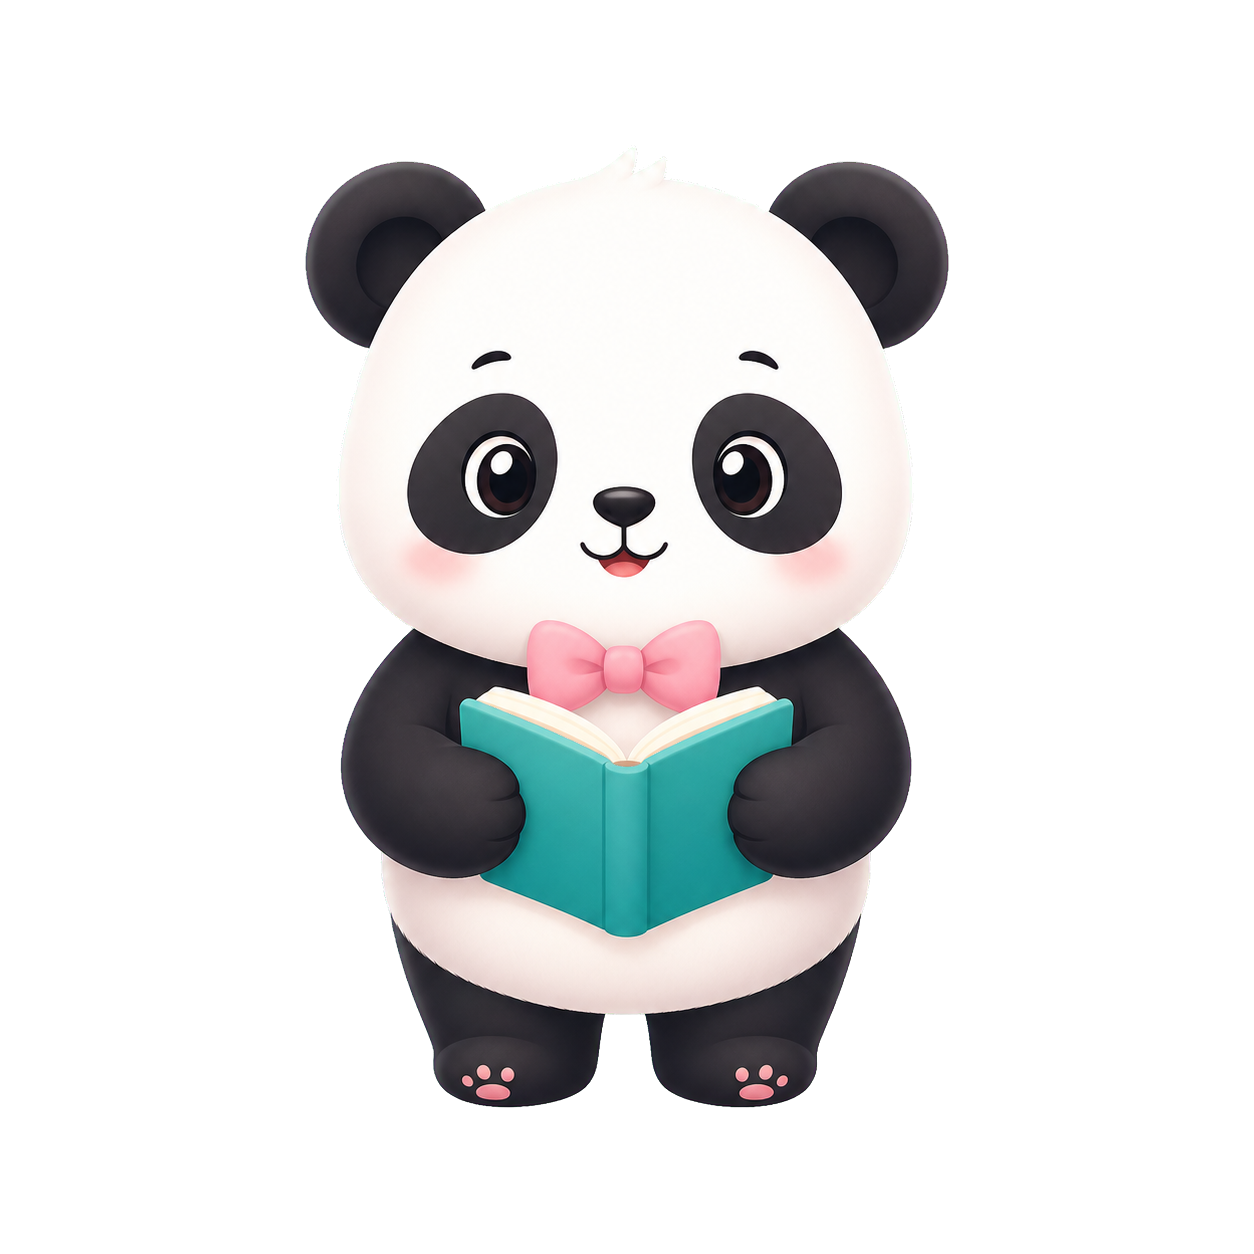
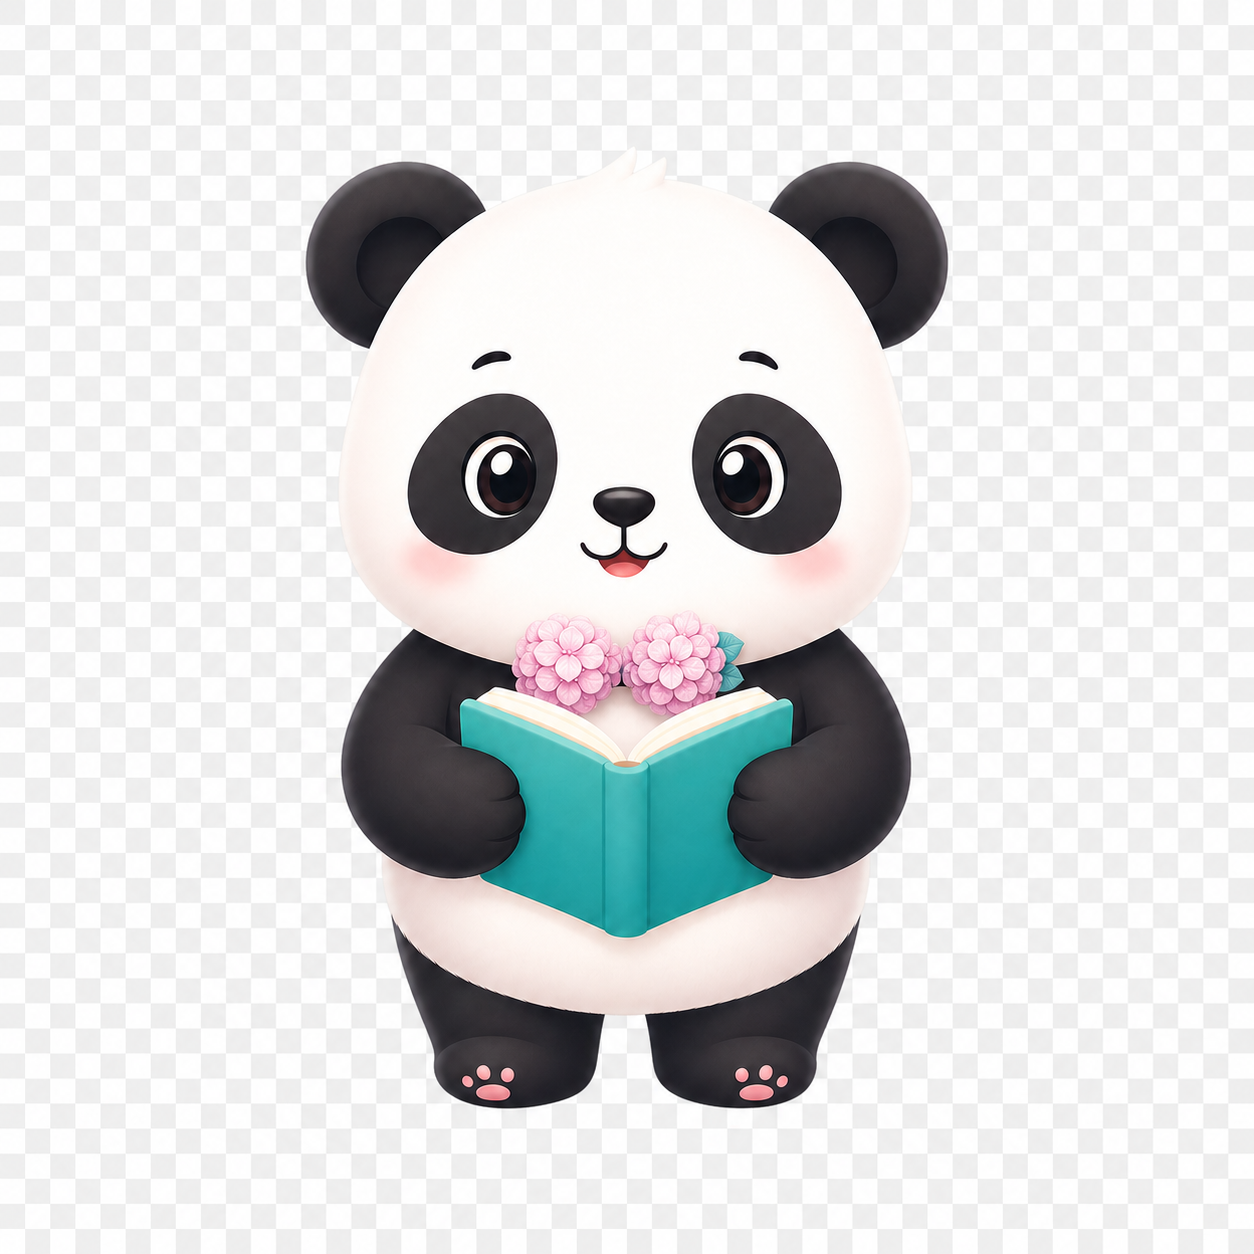
Add hydrangea bow and bamboo animation

Changed region(s): [[0.4043, 0.4976, 0.5909, 0.5909], [0.5909, 0.8708, 0.622, 0.9019]]

diff --git a/client/src/index.css b/client/src/index.css
@@ -83,6 +83,11 @@ button:hover {
 html[data-theme="basic"] body { background: #fafafa; }
 html[data-theme="basic"] header,
 html[data-theme="basic"] main { background: #fafafa !important; }
+
+.panda-bob { animation: panda-bob 2.8s ease-in-out infinite; }
+.panda-bamboo { position: absolute; left: 12%; bottom: 30%; font-size: 1.45rem; transform-origin: 85% 50%; animation: panda-chew 1.15s ease-in-out infinite; filter: drop-shadow(0 2px 2px rgba(15,23,42,.15)); }
+@keyframes panda-bob { 0%,100% { transform: translateY(0) rotate(0); } 50% { transform: translateY(-2px) rotate(-1deg); } }
+@keyframes panda-chew { 0%,100% { transform: rotate(-18deg) translate(0,0); } 50% { transform: rotate(-5deg) translate(5px,-1px); } }
 @keyframes welcome-card-in { from { opacity: 0; transform: translateY(14px) scale(.96); } to { opacity: 1; transform: translateY(0) scale(1); } }
 @keyframes welcome-screen-out { to { opacity: 0; visibility: hidden; pointer-events: none; } }
 @keyframes welcome-icon-float { 0%,100% { transform: translateY(0) rotate(-2deg); } 50% { transform: translateY(-5px) rotate(2deg); } }

diff --git a/client/src/components/PandaAssistant.tsx b/client/src/components/PandaAssistant.tsx
@@ -12,7 +12,8 @@ export default function PandaAssistant() {
         <p className="mt-1 leading-5">Cần mình giúp tạo thẻ, ôn bài hay giải thích kiến thức không?</p>
       </div>}
       <button type="button" onClick={() => setOpen((value) => !value)} aria-label="Mở trợ lý AI Panda" className="group relative flex h-20 w-20 items-center justify-center rounded-full border-4 border-white bg-gradient-to-br from-rose-100 to-teal-100 shadow-[0_10px_30px_rgba(15,118,110,0.2)] transition hover:scale-105 sm:h-24 sm:w-24">
-        <img src="/panda-assistant.png" alt="Trợ lý AI Panda" className="h-full w-full object-contain" />
+        <img src="/panda-assistant.png" alt="Trợ lý AI Panda" className="panda-bob h-full w-full object-contain" />
+        <span className="panda-bamboo" aria-hidden="true">🎋</span>
         <span className="absolute -right-1 -top-1 flex h-7 w-7 items-center justify-center rounded-full bg-teal-400 text-white shadow-sm"><MessageCircle size={14} /></span>
       </button>
     </div>
